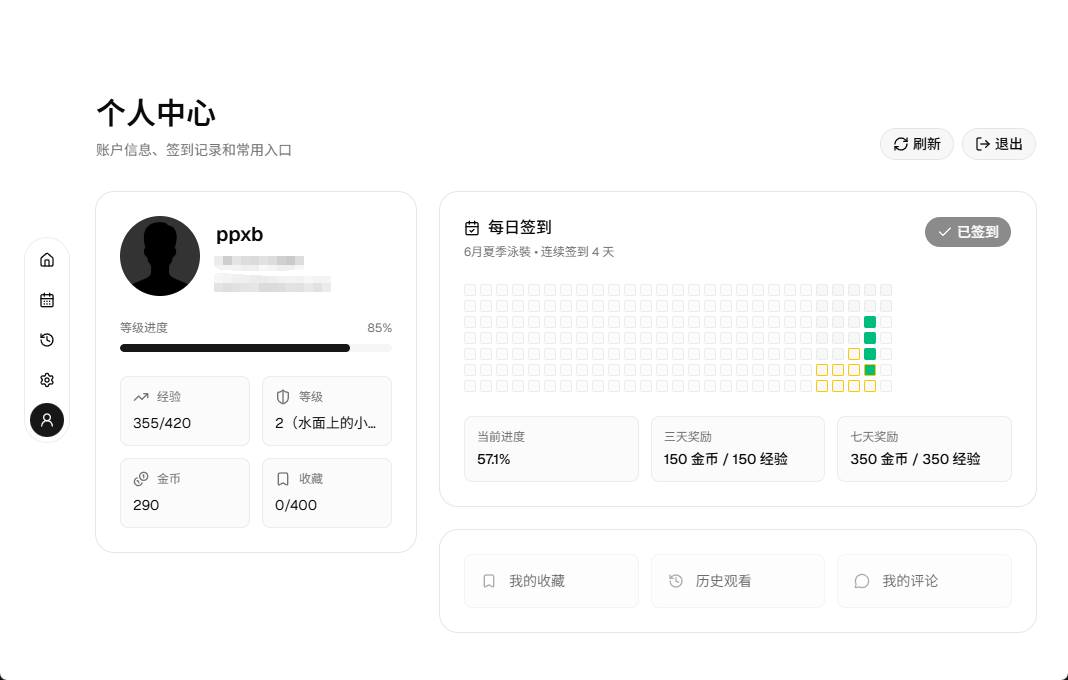
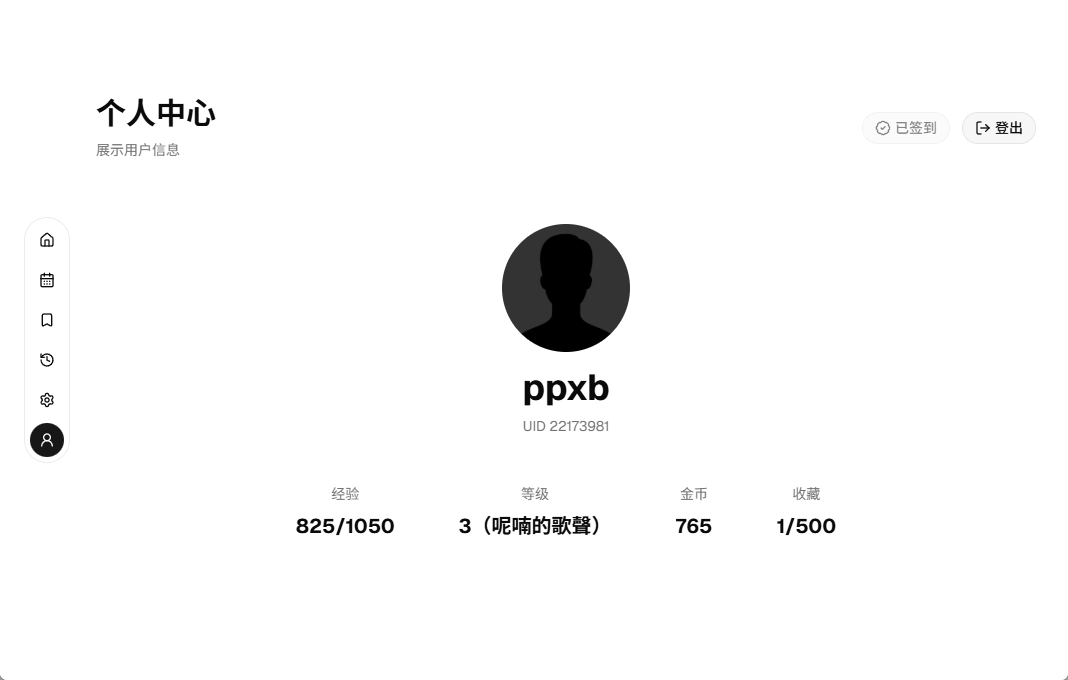
update README.MD

diff --git a/README.md b/README.md
@@ -28,6 +28,38 @@
 
 ![JM Boom 截图 8](screenshot/ScreenShot_2026-06-27_002929_032.png)
 
+## 特性 TODO
+
+### 已完成
+
+- [x] 首页信息流与基础导航
+- [x] 每周推荐页
+- [x] 详情页、章节列表、相关推荐和评论
+- [x] 阅读器单页阅读、键盘翻页、点击翻页和返回导航
+- [x] 阅读历史记录与进度恢复
+- [x] 收藏列表入口与收藏页
+- [x] 个人中心、登录与签到
+- [x] 设置页：API 探测、图片线路、代理、主题、封面隐私、预载数量、缓存管理
+- [x] 阅读器缓存、预载和图片解扰优化
+- [x] Windows 测试版打包
+
+### 进行中
+
+- [ ] 搜索及相关页面
+- [ ] 双页阅读模式
+- [ ] 滚动阅读模式
+- [ ] 阅读器排版进一步优化
+- [ ] 更完整的多平台打包与发布流程
+- [ ] 漫画下载
+
+### 规划中
+
+- [ ] 更细的阅读器性能优化
+- [ ] 更完善的离线缓存管理体验
+- [ ] 细化桌面端交互和快捷键支持
+- [ ] 桌面端系统托盘
+- [ ] 本地漫画管理
+
 ## 环境依赖
 
 - Bun：用于安装前端依赖、运行 Vite 和 Tauri CLI